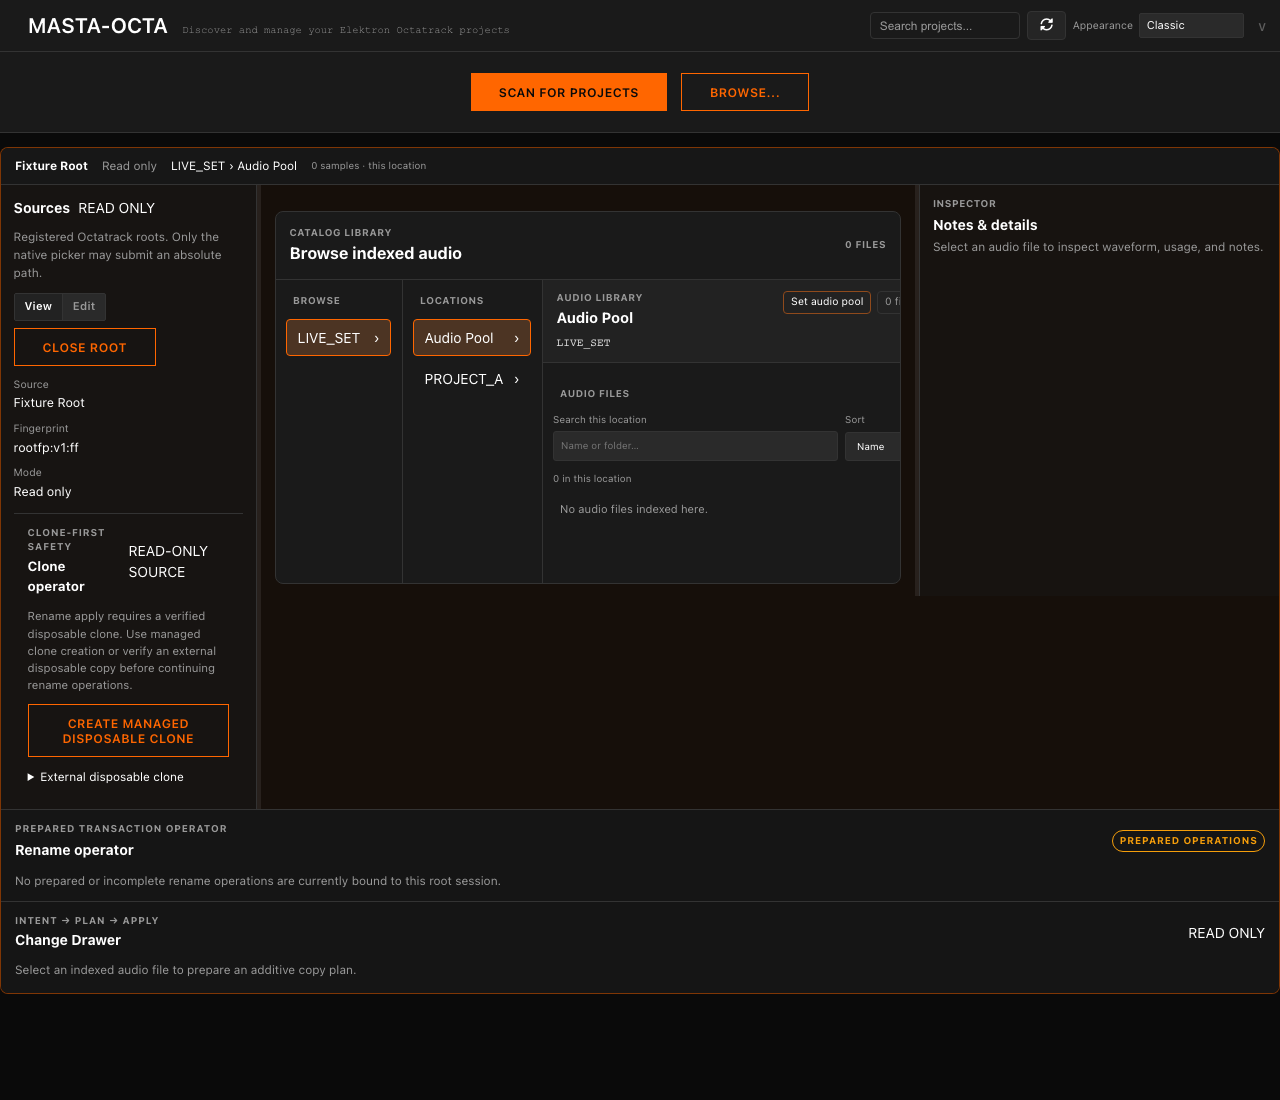
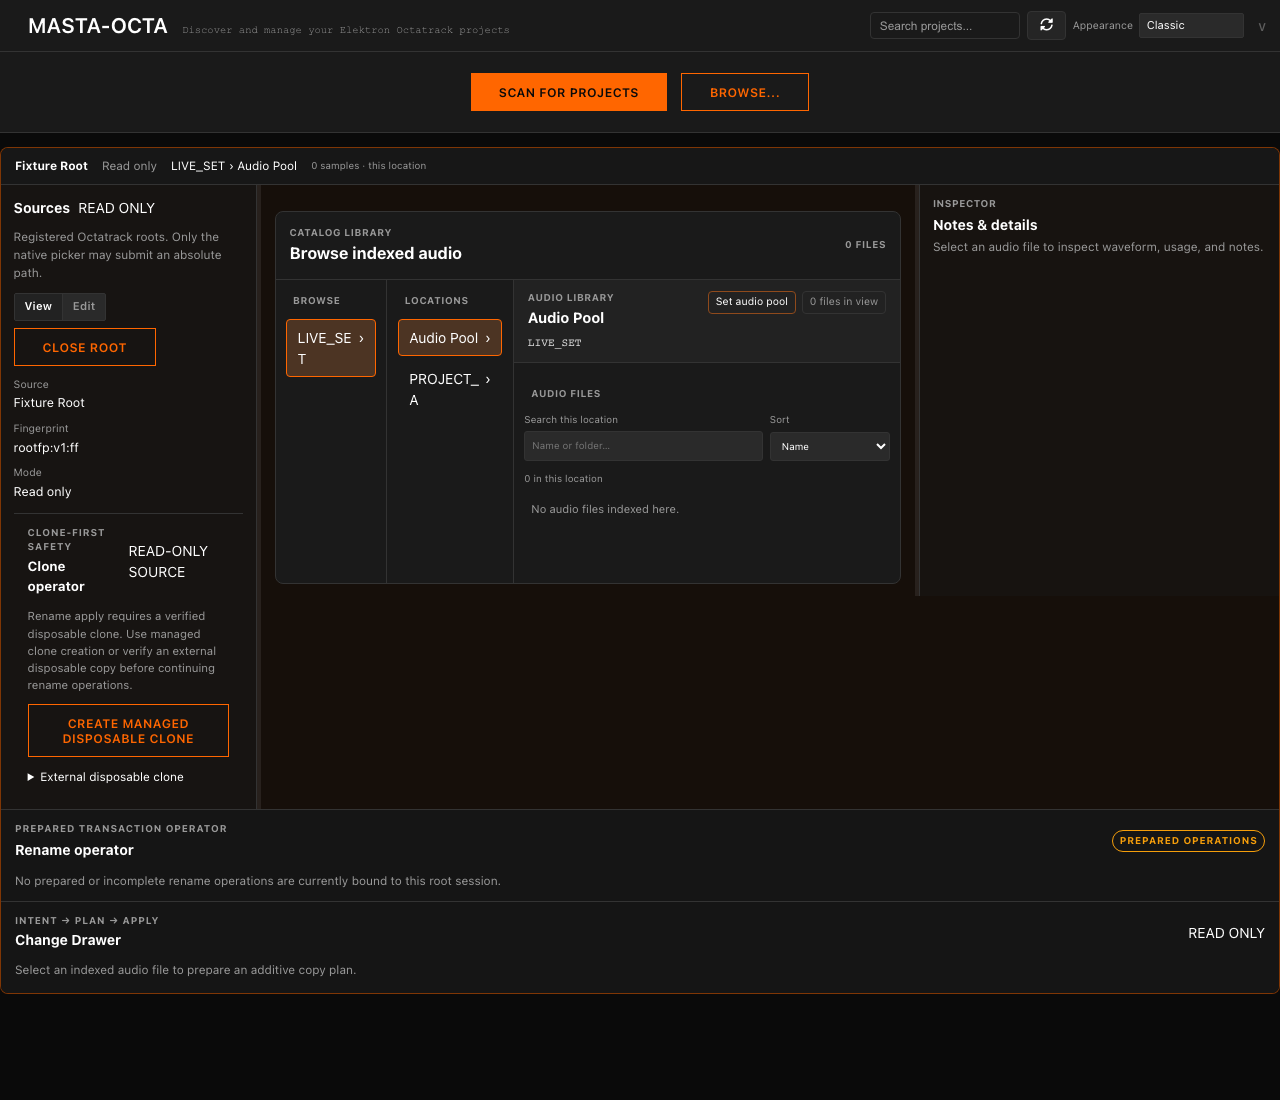
fix(library): separate page reset from clamp and fit pane width
Reset paging on search, sort, and location changes in the same update as those inputs, keep clamp for snapshot shrinkage only, and search with locale-independent lowercasing. Catalog search/sort now wrap from the files pane width instead of overflowing the 1280 default split.

Changed region(s): [[0.2188, 0.2473, 0.5, 0.4636], [0.5625, 0.2473, 0.6875, 0.2782]]

diff --git a/src/features/library/CatalogLibraryBrowser.test.tsx b/src/features/library/CatalogLibraryBrowser.test.tsx
@@ -254,6 +254,102 @@ describe("CatalogLibraryBrowser", () => {
     fireEvent.click(screen.getByRole("button", { name: "Previous" }));
     expect(screen.getByText("Page 1 of 2")).toBeInTheDocument();
     expect(screen.getByRole("button", { name: /sample-000\.wav/ })).toBeInTheDocument();
+    fireEvent.click(screen.getByRole("button", { name: "Next" }));
+    expect(screen.getByText("Page 2 of 2")).toBeInTheDocument();
+    expect(screen.getByRole("button", { name: /sample-100\.wav/ })).toBeInTheDocument();
+  });
+
+  it("resets to the first page when search shrinks a later page to 101–200 files", () => {
+    const files = Array.from({ length: 250 }, (_, index) => ({
+      fileInstanceId: `fileinst:v1:${index}`,
+      assetId: `asset:v1:${index}`,
+      displayName: index < 150 ? `keep-${String(index).padStart(3, "0")}.wav` : `drop-${index}.wav`,
+      relativePath: `LIVE_SET/AUDIO/file-${String(index).padStart(3, "0")}.wav`,
+      byteSize: index,
+      storageScope: "set_audio_pool" as const,
+    }));
+    render(
+      <CatalogLibraryBrowser
+        rootId="root-opaque"
+        snapshot={{ ...snapshot, audioFiles: files }}
+        inspectorPlacement="shell"
+      />,
+    );
+
+    fireEvent.click(screen.getByRole("button", { name: "Next" }));
+    fireEvent.click(screen.getByRole("button", { name: "Next" }));
+    expect(screen.getByText("Page 3 of 3")).toBeInTheDocument();
+
+    fireEvent.change(screen.getByLabelText("Search samples in this location"), {
+      target: { value: "keep-" },
+    });
+    expect(screen.getByText("Page 1 of 2")).toBeInTheDocument();
+    expect(screen.getByText(/150 matching/)).toBeInTheDocument();
+    expect(screen.getByRole("button", { name: /keep-000\.wav/ })).toBeInTheDocument();
+  });
+
+  it("resets to the first page when switching to another location with 101–200 files", () => {
+    const files = [
+      ...Array.from({ length: 201 }, (_, index) => ({
+        fileInstanceId: `fileinst:pool:${index}`,
+        assetId: `asset:pool:${index}`,
+        displayName: `pool-${String(index).padStart(3, "0")}.wav`,
+        relativePath: `LIVE_SET/AUDIO/pool-${String(index).padStart(3, "0")}.wav`,
+        byteSize: index,
+        storageScope: "set_audio_pool" as const,
+      })),
+      ...Array.from({ length: 150 }, (_, index) => ({
+        fileInstanceId: `fileinst:project:${index}`,
+        assetId: `asset:project:${index}`,
+        displayName: `project-${String(index).padStart(3, "0")}.wav`,
+        relativePath: `LIVE_SET/PROJECT_A/project-${String(index).padStart(3, "0")}.wav`,
+        byteSize: index,
+        storageScope: "project_local" as const,
+      })),
+    ];
+    render(
+      <CatalogLibraryBrowser
+        rootId="root-opaque"
+        snapshot={{ ...snapshot, audioFiles: files }}
+        inspectorPlacement="shell"
+      />,
+    );
+
+    fireEvent.click(screen.getByRole("button", { name: "Next" }));
+    fireEvent.click(screen.getByRole("button", { name: "Next" }));
+    expect(screen.getByText("Page 3 of 3")).toBeInTheDocument();
+
+    fireEvent.click(screen.getByRole("button", { name: /PROJECT_A/ }));
+    expect(screen.getByText("Page 1 of 2")).toBeInTheDocument();
+    expect(screen.getByRole("button", { name: /project-000\.wav/ })).toBeInTheDocument();
+  });
+
+  it("resets to the first page when sort changes on a later page", () => {
+    const files = Array.from({ length: 201 }, (_, index) => ({
+      fileInstanceId: `fileinst:v1:${index}`,
+      assetId: `asset:v1:${index}`,
+      displayName: `sample-${String(index).padStart(3, "0")}.wav`,
+      relativePath: `LIVE_SET/AUDIO/sample-${String(index).padStart(3, "0")}.wav`,
+      byteSize: index,
+      storageScope: "set_audio_pool" as const,
+    }));
+    render(
+      <CatalogLibraryBrowser
+        rootId="root-opaque"
+        snapshot={{ ...snapshot, audioFiles: files }}
+        inspectorPlacement="shell"
+      />,
+    );
+
+    fireEvent.click(screen.getByRole("button", { name: "Next" }));
+    fireEvent.click(screen.getByRole("button", { name: "Next" }));
+    expect(screen.getByText("Page 3 of 3")).toBeInTheDocument();
+
+    fireEvent.change(screen.getByLabelText("Sort samples"), {
+      target: { value: "size" },
+    });
+    expect(screen.getByText("Page 1 of 3")).toBeInTheDocument();
+    expect(screen.getByRole("button", { name: /sample-200\.wav/ })).toBeInTheDocument();
   });
 
   it("filters, paginates, and keeps selection when the file stays in the location", () => {

diff --git a/src/features/library/CatalogLibraryBrowser.tsx b/src/features/library/CatalogLibraryBrowser.tsx
@@ -174,10 +174,10 @@ export function CatalogLibraryBrowser({
   );
   const [search, setSearch] = useState("");
   const [sort, setSort] = useState<CatalogFileSort>("name");
-  const [page, setPage] = useState(0);
+  const [requestedPage, setRequestedPage] = useState(0);
   const fileQuery = useMemo(
-    () => queryCatalogFiles({ files: locationFiles, search, sort, page }),
-    [locationFiles, search, sort, page],
+    () => queryCatalogFiles({ files: locationFiles, search, sort, page: requestedPage }),
+    [locationFiles, search, sort, requestedPage],
   );
   const [selectedFileInstanceId, setSelectedFileInstanceId] = useState<string | null>(null);
   const selectedFile = useMemo(() => {
@@ -185,14 +185,6 @@ export function CatalogLibraryBrowser({
     return locationFiles.find((file) => file.fileInstanceId === selectedFileInstanceId);
   }, [locationFiles, selectedFileInstanceId]);
   const shellInspector = inspectorPlacement === "shell";
-
-  useEffect(() => {
-    setPage(0);
-  }, [selectedLocation?.key, selectedSource?.key, search, sort]);
-
-  useEffect(() => {
-    setPage((current) => (current === fileQuery.page ? current : fileQuery.page));
-  }, [fileQuery.page]);
 
   useEffect(() => {
     if (
@@ -243,11 +235,23 @@ export function CatalogLibraryBrowser({
     setSourceKey(nextKey);
     setLocationKey(null);
     setSelectedFileInstanceId(null);
+    setRequestedPage(0);
   }
 
   function selectLocation(nextKey: string) {
     setLocationKey(nextKey);
     setSelectedFileInstanceId(null);
+    setRequestedPage(0);
+  }
+
+  function changeSearch(nextSearch: string) {
+    setSearch(nextSearch);
+    setRequestedPage(0);
+  }
+
+  function changeSort(nextSort: CatalogFileSort) {
+    setSort(nextSort);
+    setRequestedPage(0);
   }
 
   if (sources.length === 0) {
@@ -276,7 +280,7 @@ export function CatalogLibraryBrowser({
               type="search"
               aria-label="Search samples in this location"
               value={search}
-              onChange={(event) => setSearch(event.target.value)}
+              onChange={(event) => changeSearch(event.target.value)}
               placeholder="Name or folder…"
             />
           </label>
@@ -285,7 +289,7 @@ export function CatalogLibraryBrowser({
             <select
               aria-label="Sort samples"
               value={sort}
-              onChange={(event) => setSort(event.target.value as CatalogFileSort)}
+              onChange={(event) => changeSort(event.target.value as CatalogFileSort)}
             >
               <option value="name">Name</option>
               <option value="size">Size · largest first</option>
@@ -322,7 +326,7 @@ export function CatalogLibraryBrowser({
             <Button
               variant="secondary"
               disabled={fileQuery.page <= 0}
-              onClick={() => setPage(Math.max(0, fileQuery.page - 1))}
+              onClick={() => setRequestedPage(Math.max(0, fileQuery.page - 1))}
             >
               Previous
             </Button>
@@ -332,7 +336,7 @@ export function CatalogLibraryBrowser({
             <Button
               variant="secondary"
               disabled={fileQuery.page >= fileQuery.lastPage}
-              onClick={() => setPage(fileQuery.page + 1)}
+              onClick={() => setRequestedPage(fileQuery.page + 1)}
             >
               Next
             </Button>

diff --git a/src/features/library/CatalogLibraryBrowser.css b/src/features/library/CatalogLibraryBrowser.css
@@ -4,6 +4,8 @@
   border-radius: var(--mo-radius-lg);
   background: var(--mo-surface-1);
   overflow: hidden;
+  container-type: inline-size;
+  container-name: catalog-library;
 }
 
 .catalog-library-title-row {
@@ -35,9 +37,9 @@
 .catalog-library-layout {
   display: grid;
   grid-template-columns:
-    minmax(9rem, 0.7fr)
-    minmax(10rem, 0.8fr)
-    minmax(31rem, 2.45fr);
+    minmax(7.5rem, 0.7fr)
+    minmax(8rem, 0.8fr)
+    minmax(0, 2.45fr);
   min-height: 15rem;
   align-items: stretch;
 }
@@ -175,7 +177,7 @@
 
 .catalog-library-search {
   display: grid;
-  grid-template-columns: minmax(0, 1fr) auto;
+  grid-template-columns: minmax(0, 1fr) minmax(8rem, auto);
   gap: var(--mo-space-2);
   margin-bottom: var(--mo-space-3);
 }
@@ -219,6 +221,17 @@
   background: color-mix(in srgb, var(--mo-surface-2) 55%, var(--mo-surface-1));
 }
 
+.catalog-library-files {
+  container-type: inline-size;
+  container-name: catalog-files;
+}
+
+@container catalog-files (max-width: 22rem) {
+  .catalog-library-search {
+    grid-template-columns: 1fr;
+  }
+}
+
 .catalog-library-inspector-content {
   display: grid;
   gap: 1rem;
@@ -237,6 +250,20 @@
   }
 
   .catalog-library-search {
+    grid-template-columns: 1fr;
+  }
+
+  .catalog-library-region,
+  .catalog-library-layout > .catalog-library-column + .catalog-library-column,
+  .catalog-library-detail > .catalog-library-column + .catalog-library-column {
+    border-top: 1px solid var(--mo-border);
+    border-left: 0;
+  }
+}
+
+@container catalog-library (max-width: 360px) {
+  .catalog-library-layout,
+  .catalog-library-detail {
     grid-template-columns: 1fr;
   }
 

diff --git a/src/features/library/catalogFileQuery.test.ts b/src/features/library/catalogFileQuery.test.ts
@@ -80,4 +80,19 @@ describe("queryCatalogFiles", () => {
     const byPath = queryCatalogFiles({ files, search: "snare", sort: "name", page: 0 });
     expect(byPath.matchingCount).toBe(1);
   });
+
+  it("matches ASCII case independently of the Turkish locale", () => {
+    const files = [file("kick", "LIVE_SET/AUDIO/KICK.wav", 1)];
+    const original = String.prototype.toLocaleLowerCase;
+    String.prototype.toLocaleLowerCase = function toTurkishLower(this: string) {
+      return original.call(this, "tr");
+    };
+    try {
+      const result = queryCatalogFiles({ files, search: "kick", sort: "name", page: 0 });
+      expect(result.matchingCount).toBe(1);
+      expect(result.visible[0]?.displayName).toBe("KICK.wav");
+    } finally {
+      String.prototype.toLocaleLowerCase = original;
+    }
+  });
 });

diff --git a/src/features/library/catalogFileQuery.ts b/src/features/library/catalogFileQuery.ts
@@ -37,13 +37,13 @@ function compareBySize(left: LibraryAudioFile, right: LibraryAudioFile): number 
 
 export function queryCatalogFiles(input: CatalogFileQueryInput): CatalogFileQueryResult {
   const locationCount = input.files.length;
-  const term = input.search.trim().toLocaleLowerCase();
+  const term = input.search.trim().toLowerCase();
   const matching = input.files
     .filter((file) => {
       if (term === "") return true;
       return (
-        file.displayName.toLocaleLowerCase().includes(term)
-        || file.relativePath.toLocaleLowerCase().includes(term)
+        file.displayName.toLowerCase().includes(term)
+        || file.relativePath.toLowerCase().includes(term)
       );
     })
     .slice()

diff --git a/docs/planning/POST_M5_FEATURE_RESTART_AUDIT.md b/docs/planning/POST_M5_FEATURE_RESTART_AUDIT.md
@@ -146,7 +146,7 @@ Must:
 | 未実装 | WF2 backend、`OperationsDialog`、#104/#105、Performance System docs |
 | 検証 | typecheck、frontend tests、build、architecture/containment、rename E2E（drawer 経路）、合成 fixture の UI 受入 |
 | 文書 | §2.2 の調査記録と実装方針を分離。milestone docs は後続であり layout のブロッカーではない |
-| UI 受入 | 合成 fixture（絶対 path なし）。Vite `localhost:1420`、Playwright Chromium。1280px / 840px |
+| UI 受入 | 合成 fixture（絶対 path なし）。Vite `localhost:1420`、Playwright Chromium。1280px / 840px。Search/Sort は catalog 実幅に応じて折り返す。locale 非依存検索と page reset/clamp を分離 |
 
 ---
 
